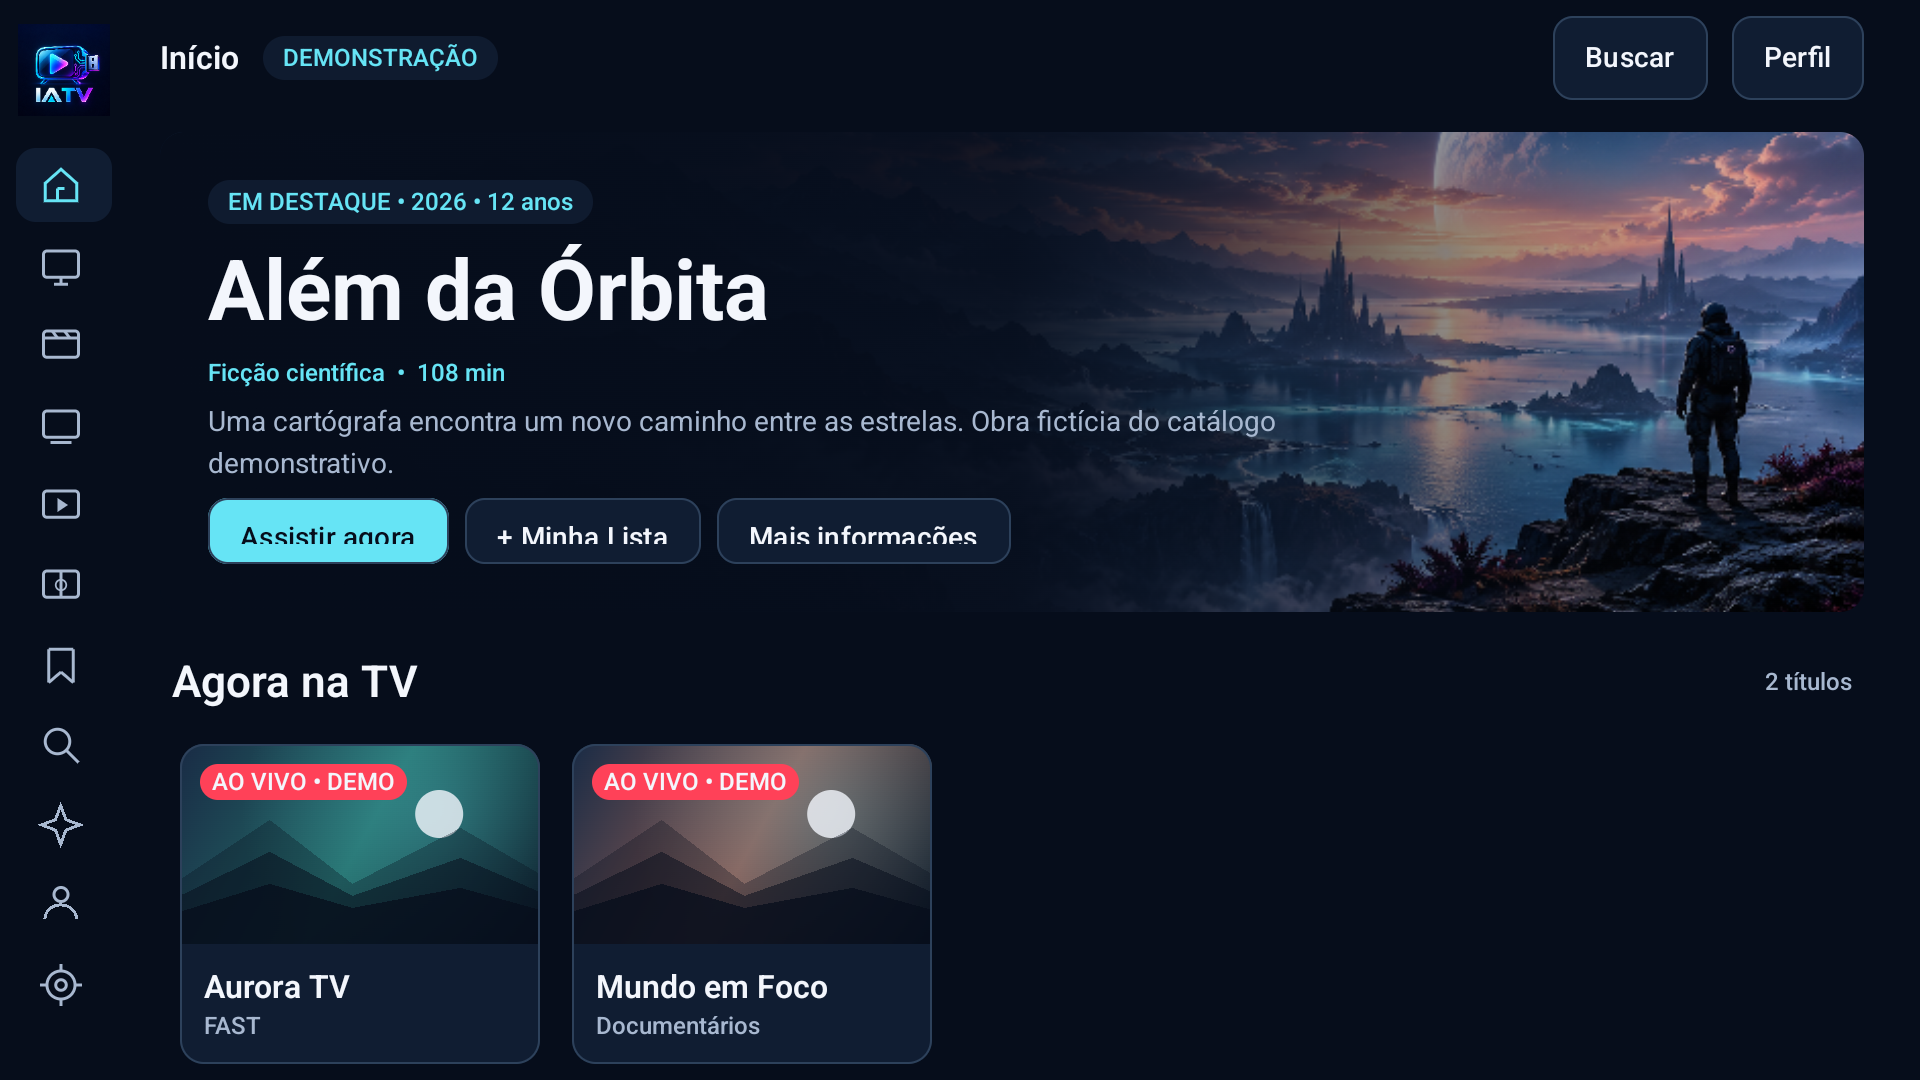
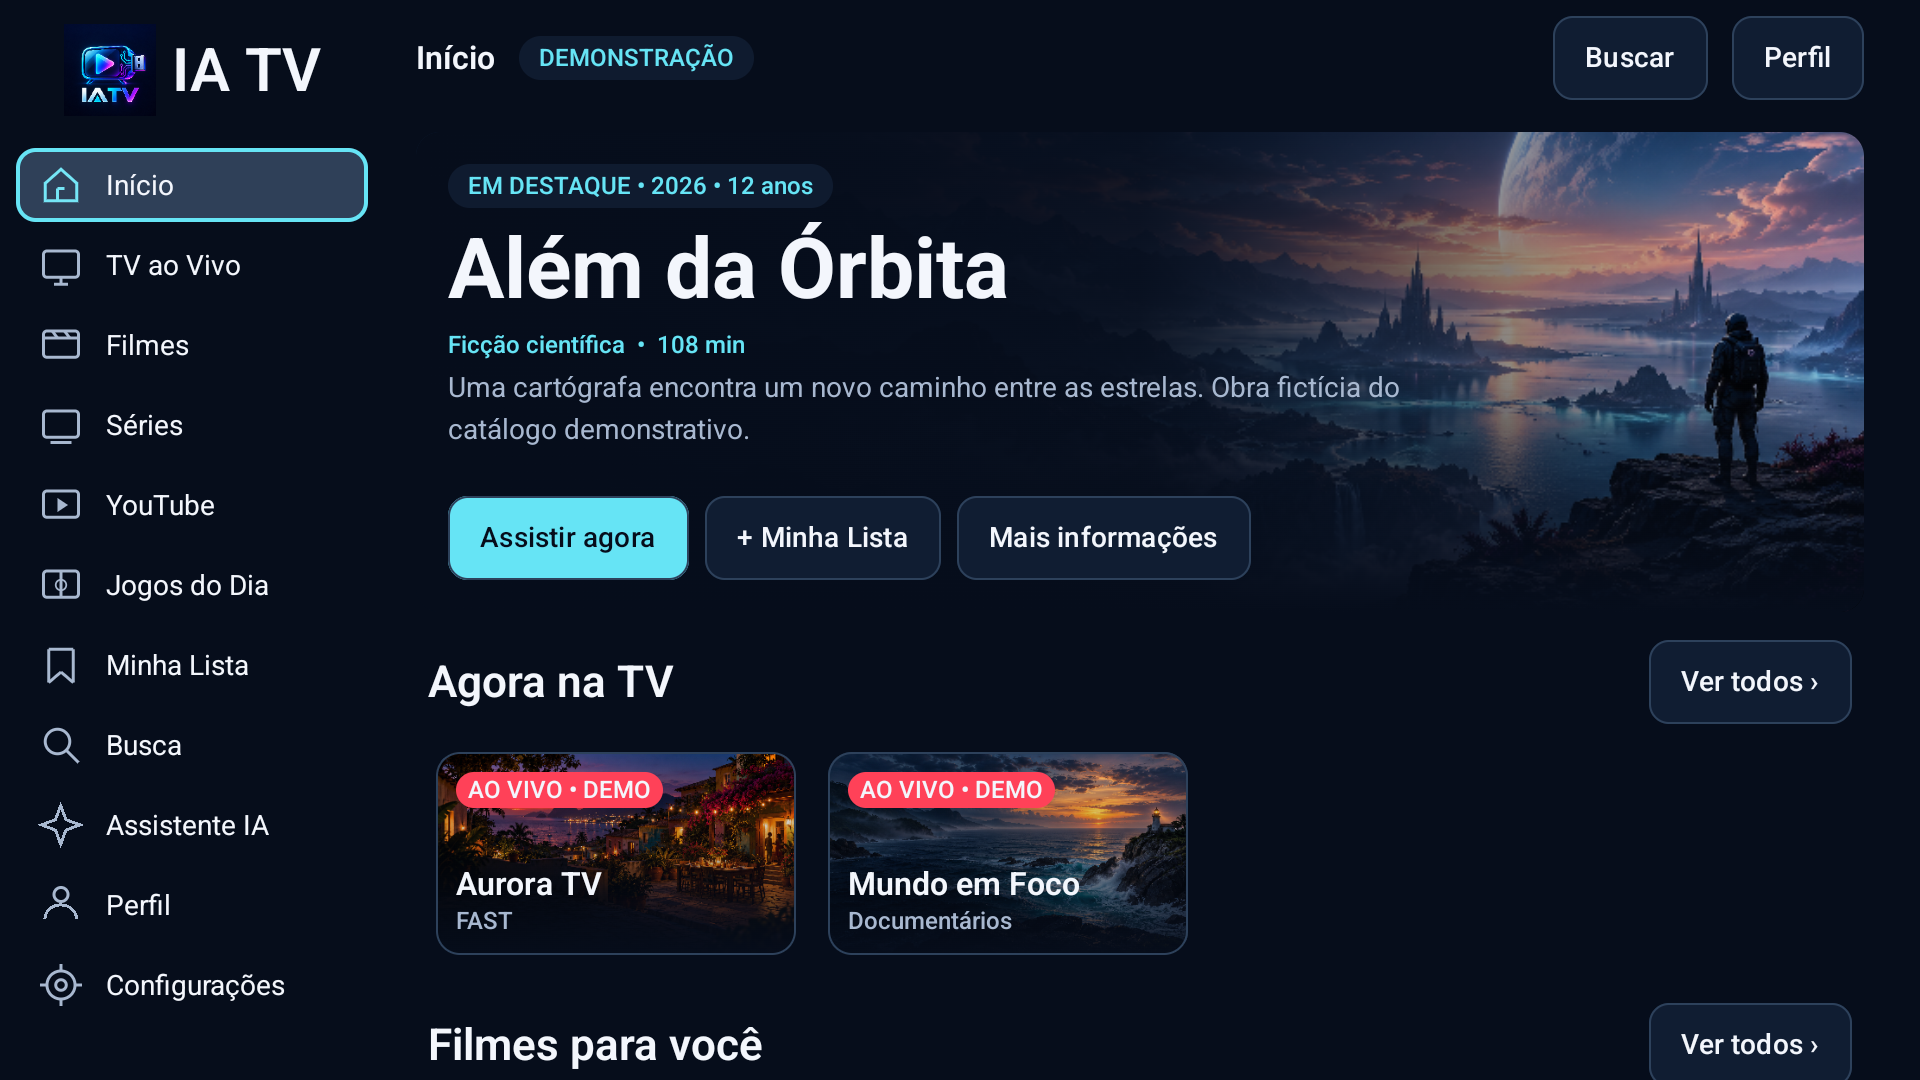
docs: capture six TV screens and record visual validation [skip ci]

diff --git a/docs/ui-redesign/README.md b/docs/ui-redesign/README.md
@@ -42,16 +42,14 @@ terceiros da referência do Assistente não foram copiados.
 |---|---|---|
 | Home | IA TV_ Entretenimento sem limites.png | screenshots/01-home-implementation.png |
 | Home/foco | Imagem do ChatGPT 21 de out. de 2026, 08_30_44-5.png | screenshots/02-home-focus-implementation.png |
-| Live | Imagem do ChatGPT 21 de out. de 2026, 08_30_39-1.png | Pendente |
+| Live | Imagem do ChatGPT 21 de out. de 2026, 08_30_39-1.png | screenshots/03-live-implementation.png |
 | Details | Imagem do ChatGPT 21 de out. de 2026, 08_30_40-2.png | screenshots/04-details-implementation.png |
-| Assistente | Imagem do ChatGPT 21 de out. de 2026, 08_30_42-3.png | Pendente |
-| Busca | Imagem do ChatGPT 21 de out. de 2026, 08_30_43-4.png | Pendente |
+| Assistente | Imagem do ChatGPT 21 de out. de 2026, 08_30_42-3.png | screenshots/05-assistant-implementation.png |
+| Busca | Imagem do ChatGPT 21 de out. de 2026, 08_30_43-4.png | screenshots/06-search-implementation.png |
 
-As três capturas de implementação acima são do checkpoint de 21/10, antes dos
-refinamentos de cards, artes e espaçamento de 22/10. `before-home.png` registra
-a Home anterior. Nenhuma dessas imagens comprova a aparência final do HEAD.
-Atualizar Home, foco e Details e capturar Live, Assistente e Busca permanece
-pendente, assim como a validação visual em 720p e 4K.
+As seis capturas de implementação foram atualizadas em 22/10 com o APK local
+do código `981bf8f`, em 1920×1080/density 320. `before-home.png` registra a Home
+anterior. A validação visual em 720p e 4K permanece pendente.
 
 ## Artes e memória
 
@@ -134,6 +132,46 @@ ligadas à API existente. O menu recolhe ao sair do foco, preservando área úti
 Teste físico de legibilidade a 2–3m, controle remoto e sessões longas permanece
 REQUIRES_PHYSICAL_DEVICE. A equivalência visual integral às referências não é
 inferida apenas de build/testes: conferir a matriz e capturas desta revisão.
+
+## Refinamento visual — 22/10, segunda revisão
+
+Commit de implementação: `981bf8f`.
+
+- Cards horizontais mantêm proporção 16:9 também na grade, evitando recortes
+  excessivamente baixos quando a largura aumenta. Pôsteres aceitam duas linhas
+  de título; badges vazios não deixam um elemento sem texto sobre a imagem.
+- Assistente ganha um painel com gradiente discreto, borda e hierarquia entre
+  identificação, pergunta principal e sugestões. O orb continua estático.
+- Busca mantém a linha de ajuda ao receber/perder foco, evitando deslocamento
+  da grade. As ações Buscar/Enviar do teclado também submetem a consulta e
+  fecham o teclado.
+- Falha de atualização com conteúdo em cache usa aviso compacto com retry.
+  Sem conteúdo disponível, permanece a mensagem completa.
+
+Validação local: `assembleDebug testDebugUnitTest lintDebug` concluído com
+BUILD SUCCESSFUL em 11m28s. 21 testes, zero falhas/erros; lint com zero erros
+e 18 avisos preexistentes. CI Android e backend aprovados para o mesmo commit:
+[execução 39817023771](https://github.com/RenatoBoranga1/iatv/actions/runs/39817023771).
+
+APK instalado no emulador API 34. Conferidos: Home; Right do menu para a ação
+do hero; Down para Aurora TV; abertura por Select e Back com restauração do
+foco no mesmo card; Details com dois relacionados; Live com dois canais e
+EPG; Assistente; Busca pelo termo público `mar`, retornando O Som do Mar.
+A ação Enter do teclado submeteu a busca e fechou o teclado. A linha de ajuda
+e os filtros mantiveram suas posições ao mudar o foco.
+
+Limitação observada: algumas primeiras requisições ao mock retornaram erro de
+conexão; retry recuperou a listagem e a busca. A causa não foi determinada
+nesta revisão visual. Não foi executado playback nem teste em aparelho físico.
+
+| Tela | Inspeção da revisão | Diferença em relação à referência |
+|---|---|---|
+| Home | Hero, logo, ações e duas artes de canais visíveis | Catálogo mock menor; menu recolhe sem foco |
+| Home/foco | Borda ciano no card e retorno por Back | Menor densidade de títulos |
+| Live | Imagem 16:9, programa atual, horários e próximo | Dois canais mock, grade de três colunas |
+| Details | Sinopse, ações e relacionados visíveis | Conteúdo e arte originais de demonstração |
+| Assistente | Painel, orb, campo e sugestões legíveis | Orb abstrato; resposta abaixo da dobra exige rolagem |
+| Busca | Campo, filtros e resultado de `mar` visíveis | Um resultado real do mock, sem preencher a grade artificialmente |
 
 ## Baseline recebido do operador
 
